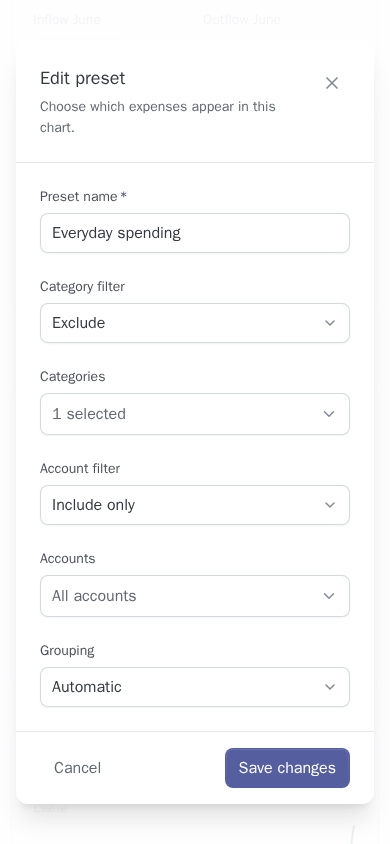
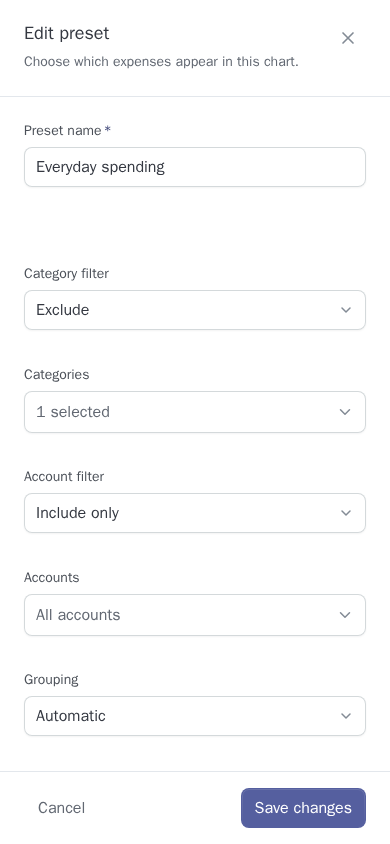
fix: use full-page mobile preset editor

diff --git a/src/test/kotlin/io/orangebuffalo/renalo/DashboardPagePlaywrightTest.kt b/src/test/kotlin/io/orangebuffalo/renalo/DashboardPagePlaywrightTest.kt
@@ -329,6 +329,35 @@ class DashboardPagePlaywrightTest : IntegrationTestSupport() {
         assertThat(page.getByRole(AriaRole.MENUITEM, Page.GetByRoleOptions().setName("Expense"))).isVisible()
     }
 
+    @Test
+    fun opensChartPresetEditorAsFullPageOverlayOnMobile(page: Page) {
+        val user = saveUser("alice")
+        saveAccount(user, "Everyday", 0, isDefault = true)
+        saveExpenseCategory(user, "General")
+        setStoredToken(page, testAuthTokens.issueToken("alice", UserType.USER))
+        page.setViewportSize(390, 844)
+
+        page.navigate(server.url.toString() + "/tracking")
+        page.getByRole(AriaRole.BUTTON, Page.GetByRoleOptions().setName("Configure expenses chart")).click()
+        page.getByRole(AriaRole.MENUITEM, Page.GetByRoleOptions().setName("Create preset")).click()
+
+        val dialog = page.getByRole(AriaRole.DIALOG, Page.GetByRoleOptions().setName("Create expenses chart preset"))
+        assertThat(dialog).isVisible()
+        assertThat(dialog.getByLabel("Preset name")).isVisible()
+
+        @Suppress("UNCHECKED_CAST")
+        val overlayBounds = page.locator(".dashboard-preset-modal-overlay").evaluate(
+            """
+                overlay => {
+                    const rect = overlay.getBoundingClientRect();
+                    return [rect.left, rect.top, rect.width, rect.height];
+                }
+            """.trimIndent(),
+        ) as List<Number>
+
+        overlayBounds.map(Number::toDouble).shouldBe(listOf(0.0, 0.0, 390.0, 844.0))
+    }
+
     private fun saveUser(username: String): User =
         userRepository.save(User(username = username, passwordHash = passwordHasher.hash("password"), type = UserType.USER))
 

diff --git a/ui/src/styles.css b/ui/src/styles.css
@@ -1023,6 +1023,49 @@ input {
 }
 
 @media (max-width: 767px) {
+  .dashboard-preset-modal-overlay {
+    align-items: stretch;
+    width: 100%;
+    height: 100dvh;
+    padding: 0;
+    background: #ffffff;
+  }
+
+  .dashboard-preset-modal {
+    width: 100%;
+    max-width: none;
+    height: 100dvh;
+    max-height: none;
+    border-radius: 0;
+    box-shadow: none;
+  }
+
+  .dashboard-preset-dialog {
+    display: flex;
+    width: 100%;
+    height: 100%;
+    max-height: none;
+    flex-direction: column;
+    overflow: hidden;
+  }
+
+  .dashboard-preset-modal-header {
+    flex-shrink: 0;
+    padding-top: max(20px, env(safe-area-inset-top));
+  }
+
+  .dashboard-preset-form {
+    min-height: 0;
+    flex: 1;
+    overflow-y: auto;
+    overscroll-behavior: contain;
+  }
+
+  .dashboard-preset-modal-actions {
+    flex-shrink: 0;
+    padding-bottom: max(16px, env(safe-area-inset-bottom));
+  }
+
   .transaction-filter-row {
     display: flex;
     align-items: center;

diff --git a/ui/src/components/dashboard/DashboardChartPresetControl.tsx b/ui/src/components/dashboard/DashboardChartPresetControl.tsx
@@ -282,11 +282,13 @@ export function DashboardChartPresetControl({
       <ModalOverlay
         isOpen={isEditorOpen}
         isDismissable
+        className="dashboard-preset-modal-overlay"
         onOpenChange={setIsEditorOpen}
       >
-        <Modal className="w-full max-w-2xl">
+        <Modal className="dashboard-preset-modal w-full max-w-2xl">
           <Dialog
             aria-label={`${editingPreset ? "Edit" : "Create"} ${typeLabel} chart preset`}
+            className="dashboard-preset-dialog"
           >
             <div className="dashboard-preset-modal-header">
               <div>

diff --git a/AGENTS.md b/AGENTS.md
@@ -81,6 +81,7 @@
 - Search inputs rendered inside an opened dropdown popover must receive focus automatically on desktop so users can type immediately; do not focus them automatically on mobile because that opens the software keyboard.
 - Searchable dropdown keyboard navigation keeps DOM focus in the search input while Arrow Up and Arrow Down change the background-highlighted active option through `aria-activedescendant`; Enter selects the active option, with the first visible option active initially.
 - Overview **More filters** controls must overlay the active-count badge on the filter icon so it does not affect the trigger width and an open desktop popover stays anchored; on mobile, render the filters as a closable full-page modal.
+- On mobile, modal or popover content with forms, filters, calendars, multi-step controls, or otherwise substantial interaction must render as a closable full-page overlay. Reserve centered mobile dialogs for brief confirmations and simple prompts.
 - Required Untitled UI support dependencies include React Aria components, Tailwind utilities, `tailwind-merge`, and `tailwindcss-animate`; keep them in `ui/package.json` when generated components need them.
 - Keep custom CSS minimal and scoped. Prefer using Untitled UI copied components over page-specific element selectors.
 - Standard authenticated pages should put page-level descriptions, counters/badges, and primary actions in `PageLayout`, not inside table panels or forms.
